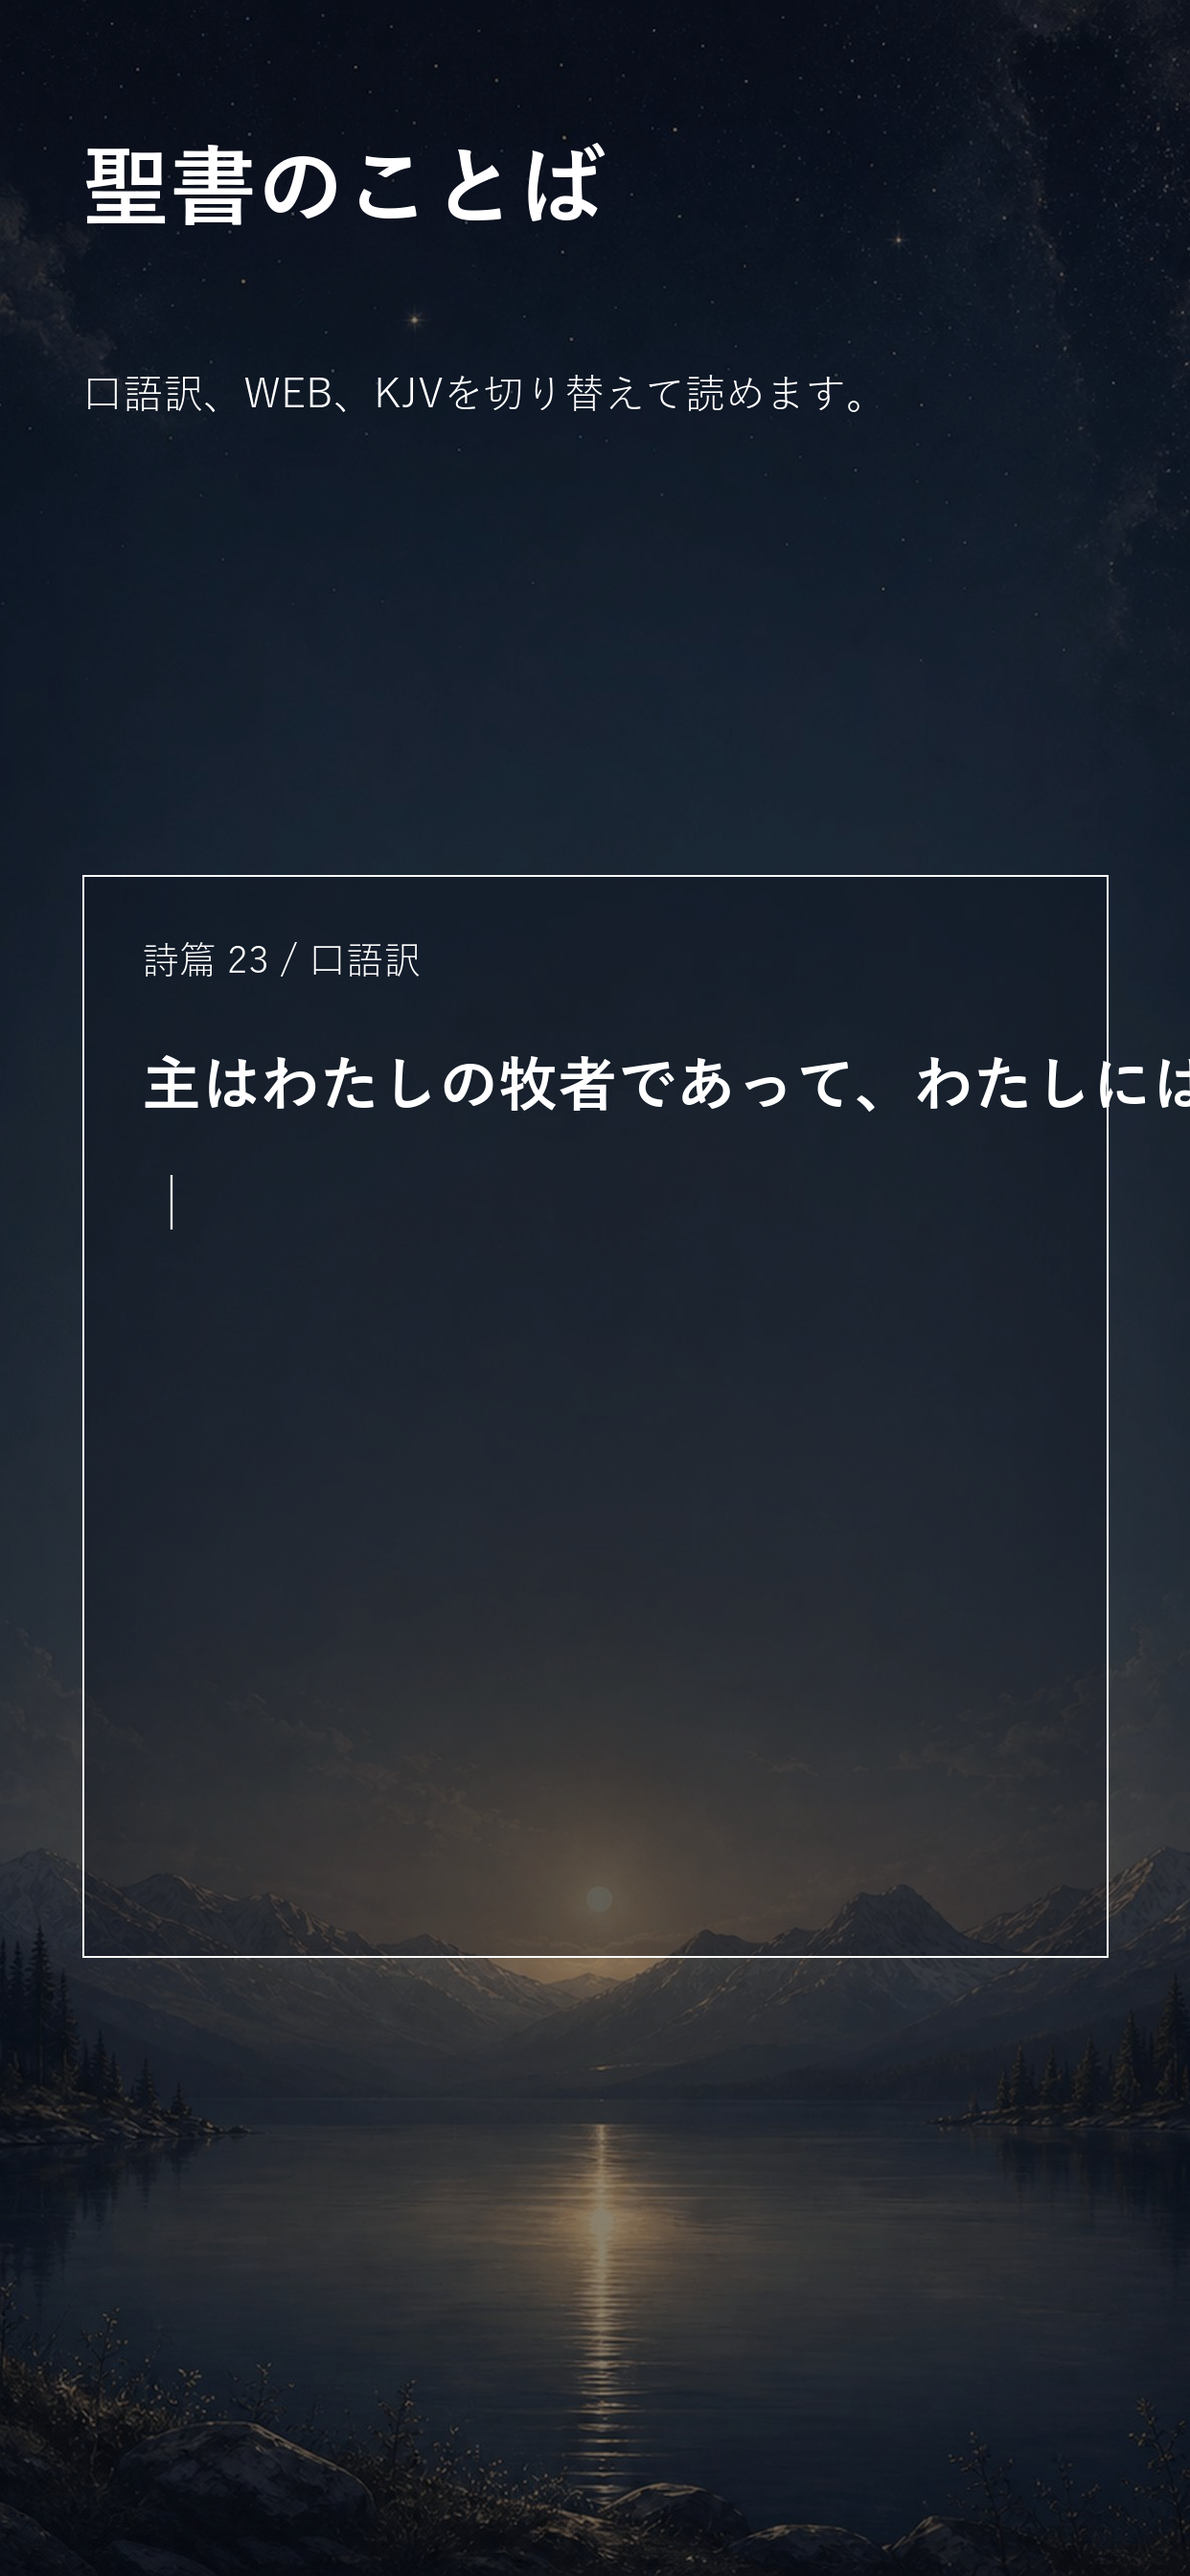
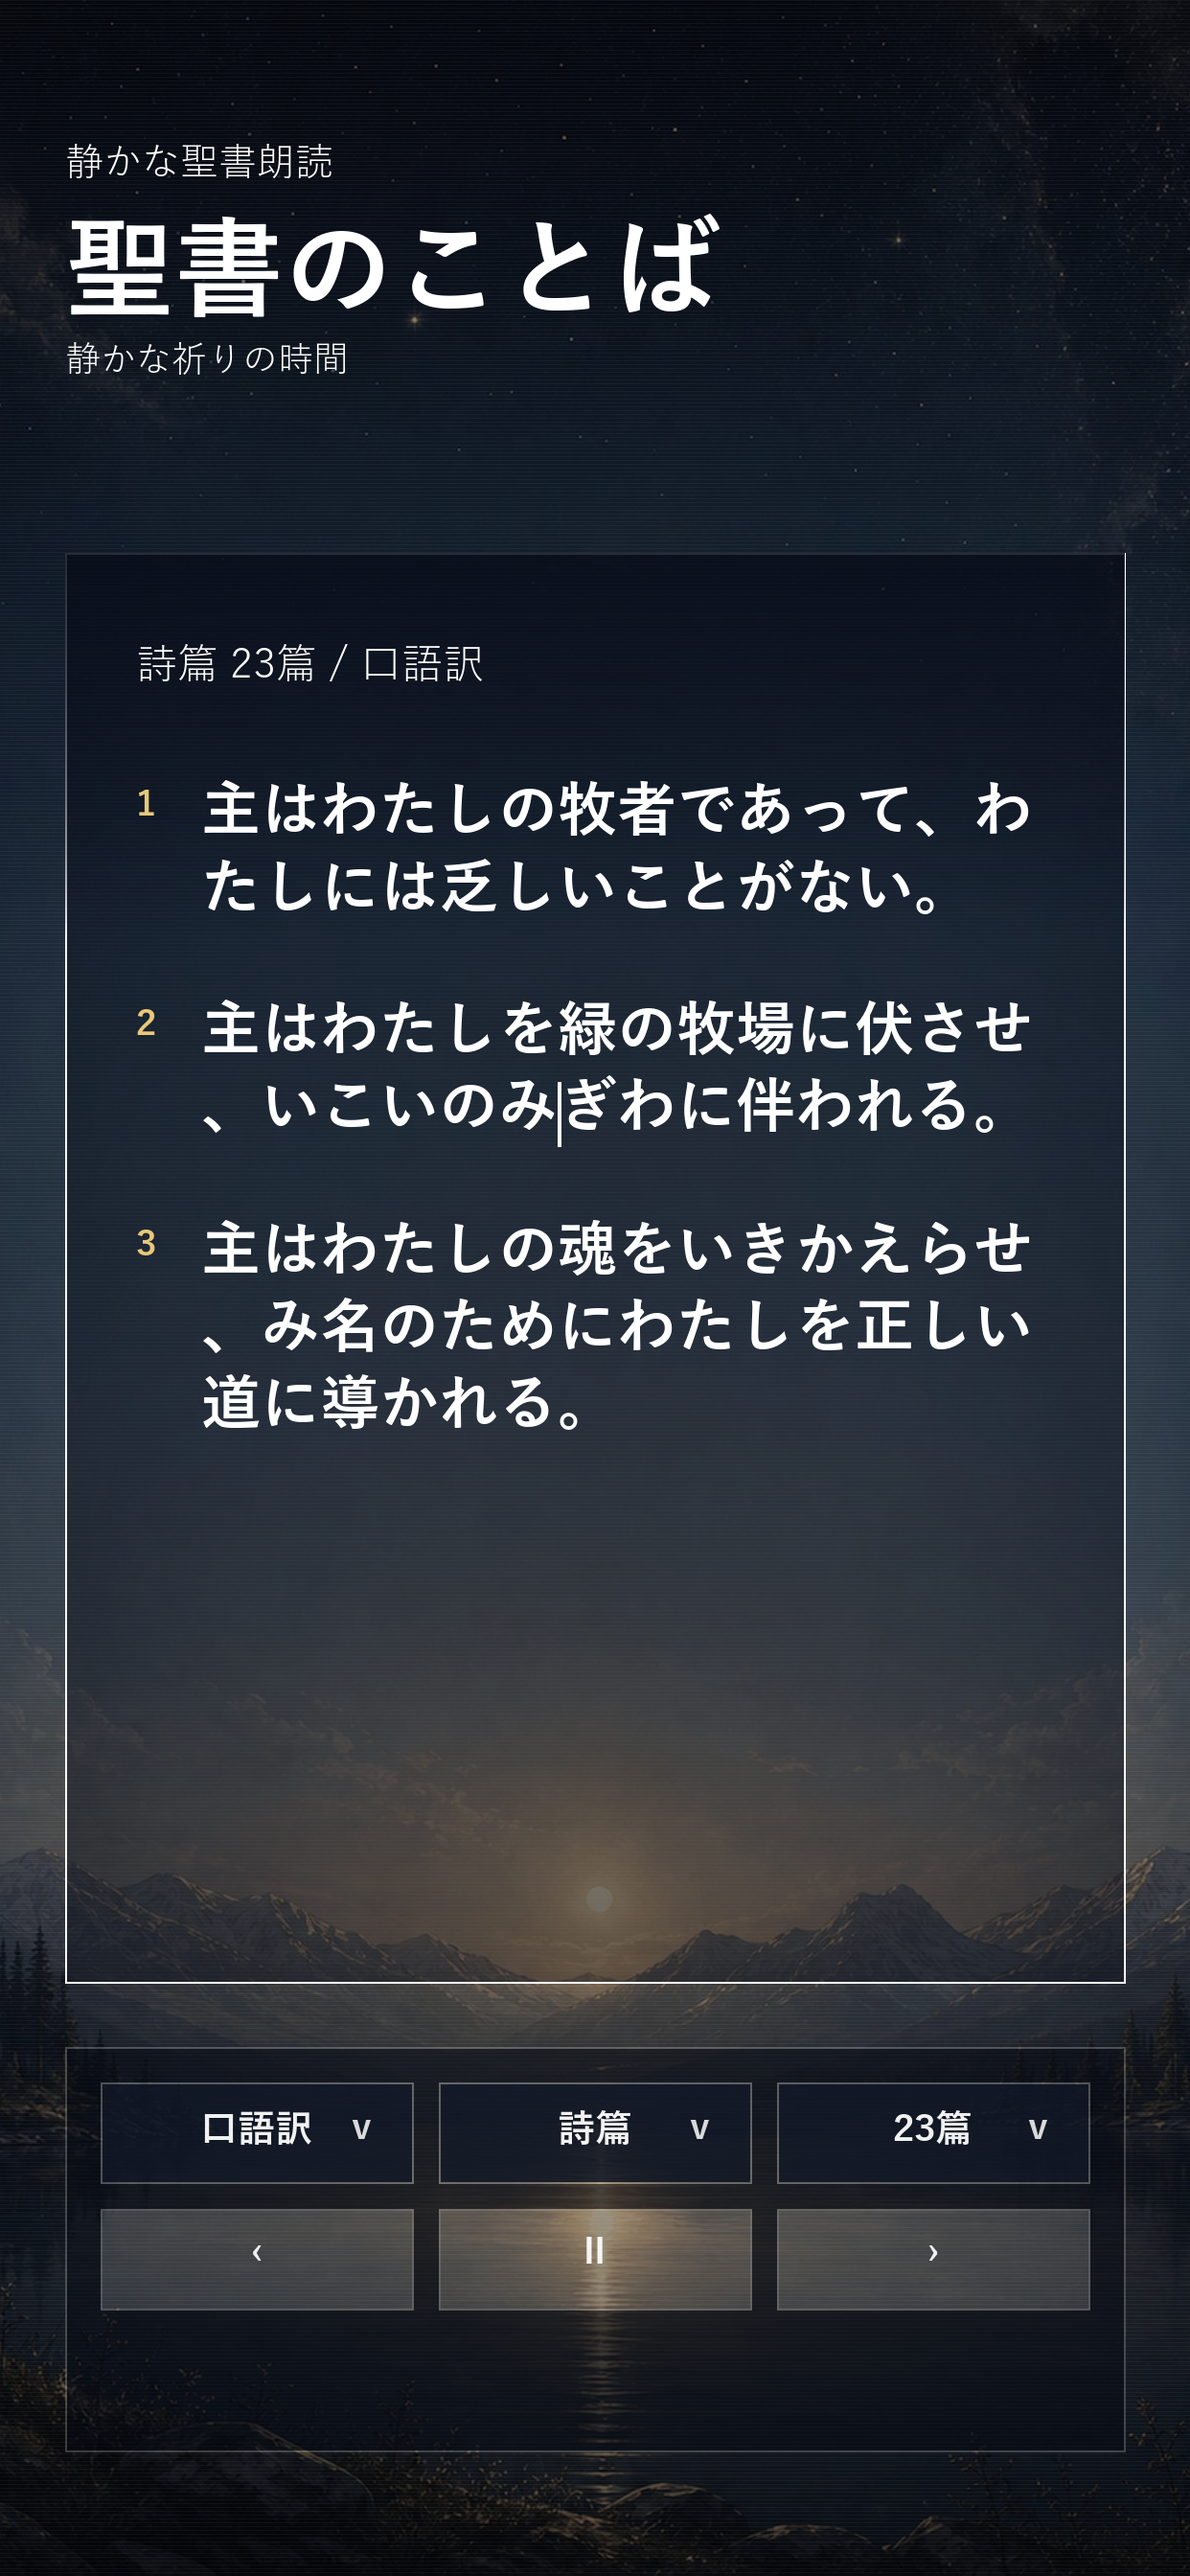
Update Bible App Store screenshots

diff --git a/ios/BibleTypewriter/scripts/generate_marketing_screenshots.py b/ios/BibleTypewriter/scripts/generate_marketing_screenshots.py
@@ -1,5 +1,6 @@
 from __future__ import annotations
 
+from dataclasses import dataclass
 from pathlib import Path
 
 from PIL import Image, ImageDraw, ImageEnhance, ImageFilter, ImageFont
@@ -16,22 +17,78 @@ SIZES = {
     "ipad129": (2048, 2732),
 }
 
+
+@dataclass(frozen=True)
+class Scene:
+    category: str
+    filename: str
+    book: str
+    chapter: str
+    translation: str
+    meta: str
+    verses: list[tuple[str, str]]
+    controls: tuple[str, str, str]
+
+
 SCENES = [
-    ("genesis", "chapter_bg_001.jpg", "静かな背景に、聖書のことばが一文字ずつ流れます。", "創世記 1 / 口語訳", "はじめに神は天と地とを創造された。"),
-    ("psalms", "chapter_bg_020.jpg", "口語訳、WEB、KJVを切り替えて読めます。", "詩篇 23 / 口語訳", "主はわたしの牧者であって、わたしには乏しいことがない。"),
-    ("gospels", "chapter_bg_047.jpg", "章が終わると、ひと呼吸して次の章へ進みます。", "ヨハネによる福音書 1 / 口語訳", "初めに言があった。言は神と共にあった。"),
+    Scene(
+        "genesis",
+        "chapter_bg_001.jpg",
+        "創世記",
+        "1章",
+        "口語訳",
+        "天地創造のはじまり",
+        [
+            ("1", "はじめに神は天と地とを創造された。"),
+            ("2", "地は形なく、むなしく、やみが淵のおもてにあり、神の霊が水のおもてをおおっていた。"),
+            ("3", "神は「光あれ」と言われた。すると光があった。"),
+        ],
+        ("口語訳", "創世記", "1章"),
+    ),
+    Scene(
+        "psalms",
+        "chapter_bg_020.jpg",
+        "詩篇",
+        "23篇",
+        "口語訳",
+        "静かな祈りの時間",
+        [
+            ("1", "主はわたしの牧者であって、わたしには乏しいことがない。"),
+            ("2", "主はわたしを緑の牧場に伏させ、いこいのみぎわに伴われる。"),
+            ("3", "主はわたしの魂をいきかえらせ、み名のためにわたしを正しい道に導かれる。"),
+        ],
+        ("口語訳", "詩篇", "23篇"),
+    ),
+    Scene(
+        "gospels",
+        "chapter_bg_047.jpg",
+        "ヨハネによる福音書",
+        "1章",
+        "WEB",
+        "日本語と英語で読む聖書",
+        [
+            ("1", "In the beginning was the Word, and the Word was with God, and the Word was God."),
+            ("2", "The same was in the beginning with God."),
+            ("3", "All things were made through him. Without him, nothing was made that has been made."),
+        ],
+        ("WEB", "John", "1章"),
+    ),
 ]
 
 
-def font(size: int, bold: bool = False):
+def font(size: int, bold: bool = False) -> ImageFont.FreeTypeFont | ImageFont.ImageFont:
     candidates = [
+        "C:/Windows/Fonts/YuMincho.ttc",
         "C:/Windows/Fonts/YuGothB.ttc" if bold else "C:/Windows/Fonts/YuGothR.ttc",
-        "C:/Windows/Fonts/meiryo.ttc",
-        "C:/Windows/Fonts/msgothic.ttc",
+        "C:/Windows/Fonts/meiryob.ttc" if bold else "C:/Windows/Fonts/meiryo.ttc",
+        "/System/Library/Fonts/ヒラギノ明朝 ProN.ttc",
+        "/System/Library/Fonts/ヒラギノ角ゴシック W6.ttc",
+        "/System/Library/Fonts/Hiragino Sans GB.ttc",
     ]
     for candidate in candidates:
-        if Path(candidate).exists():
-            return ImageFont.truetype(candidate, size)
+        path = Path(candidate)
+        if path.exists():
+            return ImageFont.truetype(str(path), size)
     return ImageFont.load_default()
 
 
@@ -48,56 +105,200 @@ def cover(image: Image.Image, size: tuple[int, int]) -> Image.Image:
     return image.crop(((w - size[0]) // 2, (h - size[1]) // 2, (w + size[0]) // 2, (h + size[1]) // 2))
 
 
-def draw_wrapped(draw: ImageDraw.ImageDraw, text: str, xy, max_width: int, fnt, fill, spacing: int = 10):
-    words = list(text)
-    lines: list[str] = []
+def rounded_rect(draw: ImageDraw.ImageDraw, box, radius: int, fill, outline=None, width: int = 1) -> None:
+    draw.rounded_rectangle(box, radius=radius, fill=fill, outline=outline, width=width)
+
+
+def text_height(draw: ImageDraw.ImageDraw, value: str, fnt) -> int:
+    box = draw.textbbox((0, 0), value, font=fnt)
+    return box[3] - box[1]
+
+
+def wrap_text(draw: ImageDraw.ImageDraw, text: str, max_width: int, fnt) -> list[str]:
+    if " " in text and text.isascii():
+        chunks = text.split(" ")
+        lines: list[str] = []
+        line = ""
+        for chunk in chunks:
+            candidate = chunk if not line else f"{line} {chunk}"
+            if draw.textbbox((0, 0), candidate, font=fnt)[2] <= max_width or not line:
+                line = candidate
+            else:
+                lines.append(line)
+                line = chunk
+        if line:
+            lines.append(line)
+        return lines
+
+    lines = []
     line = ""
-    for char in words:
-        test = line + char
-        if draw.textbbox((0, 0), test, font=fnt)[2] <= max_width or not line:
-            line = test
+    for char in text:
+        candidate = line + char
+        if draw.textbbox((0, 0), candidate, font=fnt)[2] <= max_width or not line:
+            line = candidate
         else:
             lines.append(line)
             line = char
     if line:
         lines.append(line)
-    x, y = xy
-    for line in lines:
+    return lines
+
+
+def draw_wrapped(draw: ImageDraw.ImageDraw, text: str, x: int, y: int, max_width: int, fnt, fill, spacing: int) -> int:
+    for line in wrap_text(draw, text, max_width, fnt):
         draw.text((x, y), line, font=fnt, fill=fill)
-        y += draw.textbbox((0, 0), line, font=fnt)[3] + spacing
+        y += text_height(draw, line, fnt) + spacing
+    return y
+
+
+def draw_header(draw: ImageDraw.ImageDraw, size: tuple[int, int], scene: Scene, margin: int) -> None:
+    title_font = font(int(size[0] * 0.092), True)
+    small_font = font(int(size[0] * 0.033))
+    meta_font = font(int(size[0] * 0.030))
+
+    top = int(size[1] * 0.055)
+    draw.text((margin, top), "静かな聖書朗読", font=small_font, fill=(255, 255, 255, 210))
+    draw.text((margin, top + int(size[0] * 0.060)), "聖書のことば", font=title_font, fill=(255, 255, 255, 250))
+    draw.text(
+        (margin, top + int(size[0] * 0.168)),
+        scene.meta,
+        font=meta_font,
+        fill=(255, 255, 255, 174),
+    )
+
+
+def draw_reader_panel(draw: ImageDraw.ImageDraw, image: Image.Image, size: tuple[int, int], scene: Scene, margin: int) -> None:
+    panel_top = int(size[1] * 0.215)
+    panel_bottom = int(size[1] * 0.770)
+    panel_left = margin
+    panel_right = size[0] - margin
+
+    panel = Image.new("RGBA", (panel_right - panel_left, panel_bottom - panel_top), (8, 13, 25, 105))
+    panel = panel.filter(ImageFilter.GaussianBlur(0.15))
+    image.alpha_composite(panel, (panel_left, panel_top))
+    draw.rectangle(
+        (panel_left, panel_top, panel_right, panel_bottom),
+        outline=(255, 255, 255, 58),
+        width=max(2, size[0] // 560),
+    )
+
+    fade_top = Image.new("RGBA", (panel_right - panel_left, int(size[1] * 0.15)), (0, 0, 0, 0))
+    fade_draw = ImageDraw.Draw(fade_top)
+    for y in range(fade_top.height):
+        alpha = max(0, 150 - int(y * 150 / fade_top.height))
+        fade_draw.line((0, y, fade_top.width, y), fill=(6, 10, 22, alpha))
+    image.alpha_composite(fade_top, (panel_left, panel_top))
+
+    reference_font = font(int(size[0] * 0.035))
+    verse_font = font(int(size[0] * 0.050), True)
+    number_font = font(int(size[0] * 0.030), True)
+    body_left = panel_left + int(size[0] * 0.060)
+    body_width = panel_right - body_left - int(size[0] * 0.060)
+    y = panel_top + int(size[0] * 0.075)
+
+    draw.text(
+        (body_left, y),
+        f"{scene.book} {scene.chapter} / {scene.translation}",
+        font=reference_font,
+        fill=(255, 255, 255, 210),
+    )
+    y += int(size[0] * 0.115)
+
+    for index, (number, verse) in enumerate(scene.verses):
+        number_fill = (232, 200, 120, 238)
+        text_fill = (255, 255, 255, 245 if index == 1 else 218)
+        draw.text((body_left, y + int(size[0] * 0.006)), number, font=number_font, fill=number_fill)
+        y = draw_wrapped(
+            draw,
+            verse,
+            body_left + int(size[0] * 0.055),
+            y,
+            body_width - int(size[0] * 0.055),
+            verse_font,
+            text_fill,
+            int(size[0] * 0.018),
+        )
+        if index == 1:
+            cursor_x = body_left + int(size[0] * 0.055) + min(body_width // 2, int(size[0] * 0.30))
+            draw.rectangle(
+                (cursor_x, y - int(size[0] * 0.060), cursor_x + max(3, size[0] // 360), y - int(size[0] * 0.006)),
+                fill=(255, 255, 255, 220),
+            )
+        y += int(size[0] * 0.055)
+
+
+def draw_controls(image: Image.Image, size: tuple[int, int], scene: Scene, margin: int) -> None:
+    overlay = Image.new("RGBA", size, (0, 0, 0, 0))
+    draw = ImageDraw.Draw(overlay)
+    control_top = int(size[1] * 0.795)
+    control_bottom = int(size[1] * 0.952)
+    left = margin
+    right = size[0] - margin
+    rounded_rect(
+        draw,
+        (left, control_top, right, control_bottom),
+        radius=0,
+        fill=(5, 9, 18, 136),
+        outline=(255, 255, 255, 52),
+        width=max(2, size[0] // 640),
+    )
+
+    gap = int(size[0] * 0.022)
+    inner = int(size[0] * 0.030)
+    button_h = int(size[0] * 0.085)
+    col_w = (right - left - inner * 2 - gap * 2) // 3
+    font_small = font(int(size[0] * 0.032), True)
+
+    y = control_top + inner
+    for idx, label in enumerate(scene.controls):
+        x = left + inner + idx * (col_w + gap)
+        rounded_rect(draw, (x, y, x + col_w, y + button_h), 0, (15, 22, 36, 218), (255, 255, 255, 66), max(2, size[0] // 700))
+        tw = draw.textbbox((0, 0), label, font=font_small)[2]
+        draw.text((x + (col_w - tw) // 2, y + int(button_h * 0.26)), label, font=font_small, fill=(255, 255, 255, 238))
+        chevron = "v"
+        draw.text((x + col_w - int(size[0] * 0.052), y + int(button_h * 0.24)), chevron, font=font_small, fill=(255, 255, 255, 210))
+
+    y += button_h + gap
+    nav_labels = ("‹", "Ⅱ", "›")
+    for idx, label in enumerate(nav_labels):
+        x = left + inner + idx * (col_w + gap)
+        rounded_rect(draw, (x, y, x + col_w, y + button_h), 0, (255, 255, 255, 30), (255, 255, 255, 62), max(2, size[0] // 700))
+        tw = draw.textbbox((0, 0), label, font=font_small)[2]
+        draw.text((x + (col_w - tw) // 2, y + int(button_h * 0.22)), label, font=font_small, fill=(255, 255, 255, 238))
+    image.alpha_composite(overlay)
 
 
 def render(size: tuple[int, int], scene_index: int) -> Image.Image:
-    category, filename, headline, reference, verse = SCENES[scene_index]
-    image = cover(Image.open(BG / category / filename).convert("RGB"), size).convert("RGBA")
+    scene = SCENES[scene_index]
+    image = cover(Image.open(BG / scene.category / scene.filename).convert("RGB"), size).convert("RGBA")
 
-    veil = Image.new("RGBA", size, (0, 0, 0, 0))
-    d = ImageDraw.Draw(veil)
-    d.rectangle((0, 0, size[0], size[1]), fill=(2, 6, 14, 78))
-    image = Image.alpha_composite(image, veil)
+    overlay = Image.new("RGBA", size, (0, 0, 0, 0))
+    draw = ImageDraw.Draw(overlay)
+    draw.rectangle((0, 0, size[0], size[1]), fill=(3, 7, 17, 82))
+    for x in range(size[0]):
+        edge = abs((x / size[0]) - 0.5) * 2
+        alpha = int(105 * edge)
+        draw.line((x, 0, x, size[1]), fill=(0, 0, 0, alpha))
+    for y in range(size[1]):
+        top = max(0, 1 - y / (size[1] * 0.36))
+        bottom = max(0, (y - size[1] * 0.66) / (size[1] * 0.34))
+        alpha = int(128 * max(top, bottom))
+        draw.line((0, y, size[0], y), fill=(0, 0, 0, alpha))
+    image = Image.alpha_composite(image, overlay)
 
-    margin = int(size[0] * 0.07)
-    title_font = font(int(size[0] * 0.074), True)
-    sub_font = font(int(size[0] * 0.034), False)
-    ref_font = font(int(size[0] * 0.032), False)
-    verse_font = font(int(size[0] * 0.050), True)
+    grain = Image.new("RGBA", size, (0, 0, 0, 0))
+    grain_draw = ImageDraw.Draw(grain)
+    for y in range(0, size[1], 4):
+        grain_draw.line((0, y, size[0], y), fill=(255, 255, 255, 10))
+    image = Image.alpha_composite(image, grain)
 
-    d = ImageDraw.Draw(image)
-    d.text((margin, int(size[1] * 0.055)), "聖書のことば", font=title_font, fill=(255, 255, 255, 245))
-    draw_wrapped(d, headline, (margin, int(size[1] * 0.145)), size[0] - margin * 2, sub_font, (255, 255, 255, 205), spacing=int(size[0] * 0.014))
+    margin = int(size[0] * 0.055)
+    draw = ImageDraw.Draw(image)
+    draw_header(draw, size, scene, margin)
+    draw_reader_panel(draw, image, size, scene, margin)
+    draw_controls(image, size, scene, margin)
 
-    panel_top = int(size[1] * 0.34)
-    panel_bottom = int(size[1] * 0.76)
-    panel = Image.new("RGBA", (size[0] - margin * 2, panel_bottom - panel_top), (8, 13, 25, 90))
-    panel = panel.filter(ImageFilter.GaussianBlur(0.2))
-    image.alpha_composite(panel, (margin, panel_top))
-    d.rectangle((margin, panel_top, size[0] - margin, panel_bottom), outline=(255, 255, 255, 54), width=max(2, size[0] // 620))
-
-    d.text((margin + int(size[0] * 0.05), panel_top + int(size[0] * 0.055)), reference, font=ref_font, fill=(255, 255, 255, 200))
-    d.text((margin + int(size[0] * 0.05), panel_top + int(size[0] * 0.15)), verse, font=verse_font, fill=(255, 255, 255, 245))
-    d.text((margin + int(size[0] * 0.05), panel_top + int(size[0] * 0.25)), "｜", font=verse_font, fill=(255, 255, 255, 190))
-
-    return ImageEnhance.Sharpness(image.convert("RGB")).enhance(1.02)
+    return ImageEnhance.Sharpness(image.convert("RGB")).enhance(1.03)
 
 
 def main() -> None:
